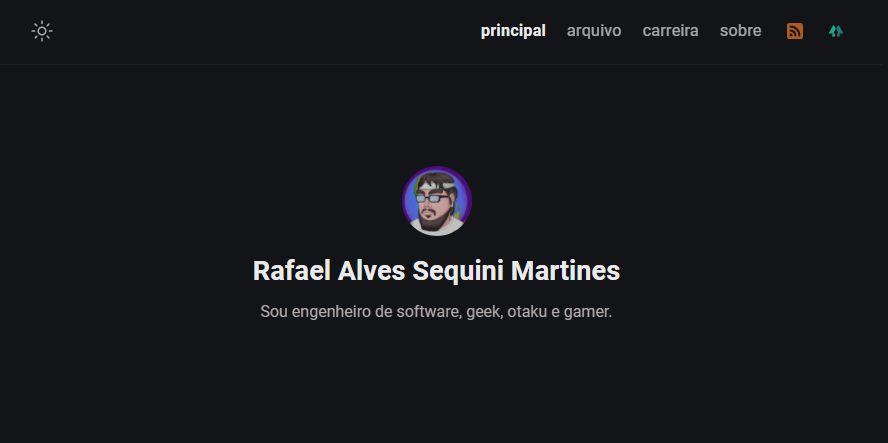
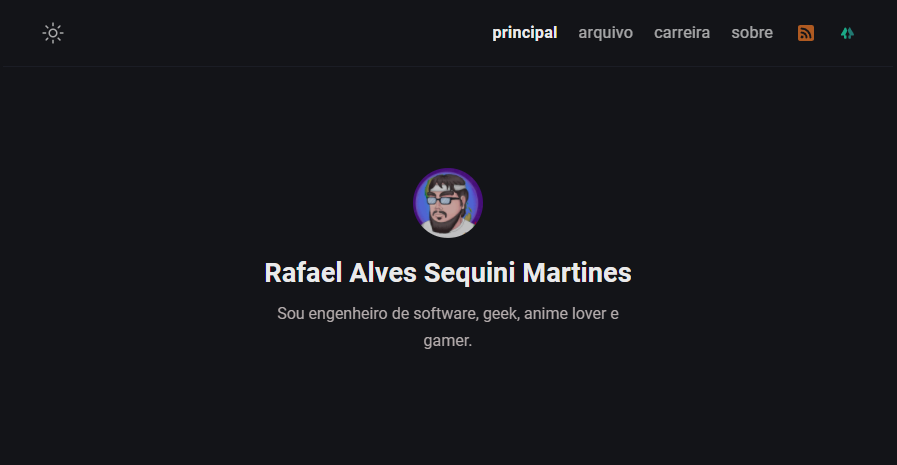
chore: Updated descriptions

diff --git a/about.md b/about.md
@@ -2,11 +2,11 @@
 title: Sobre mim
 permalink: /about/
 layout: page
-excerpt: Sou engenheiro de software, geek, otaku e gamer, formado em Analise e Desenvolvimento de Sistemas pelo Instituto Paulista de Ensino e Pesquisa
+excerpt: Sou engenheiro de software, geek, anime lover e gamer, formado em Analise e Desenvolvimento de Sistemas pelo Instituto Paulista de Ensino e Pesquisa
 comments: false
 ---
 
-Sou engenheiro de software, geek, otaku e gamer, formado em Analise e Desenvolvimento de Sistemas pelo [Instituto Paulista de Ensino e Pesquisa](http://www.ipep.com.br/site/), tenho 36 anos, moro em São Paulo, Capital.
+Sou engenheiro de software, geek, anime lover e gamer, formado em Analise e Desenvolvimento de Sistemas pelo [Instituto Paulista de Ensino e Pesquisa](http://www.ipep.com.br/site/), tenho 36 anos, moro em São Paulo, Capital.
 
 Se por caso algum link estiver quebrado, por favor, [reporte o problema no repositório do site no github](https://github.com/rafaelmartines/rafaelmartines.github.io/issues).
 
